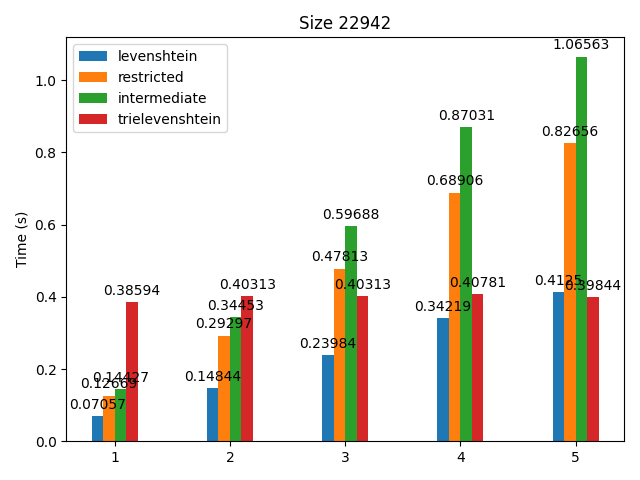
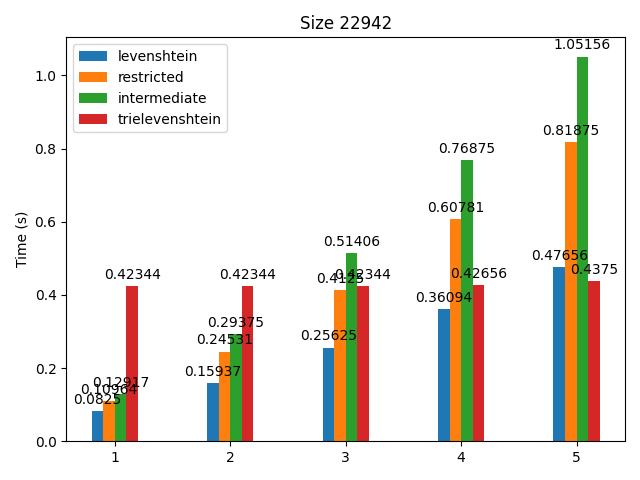
Update time measurement

diff --git a/distances/spellsuggest_time.py b/distances/spellsuggest_time.py
@@ -71,12 +71,15 @@ class TimeSpellSuggester:
             if c not in d2 : d2[c]=1
             else: d2[c]+=1
 
+        # In lista we save the keys of the dictionaries d1 and d2
+        lista = set(d1).union(set(d2))
         for c in lista: 
             if c in d1 and c in d2 and d1[c] != d2[c]: distance += abs(d1[c]-d2[c])
             elif c not in d1: distance += d2[c]
             elif c not in d2: distance += d1[c]
-            
+        
         return distance
+
 
     def suggest(self, term, distance="levenshtein", threshold=2):
 
